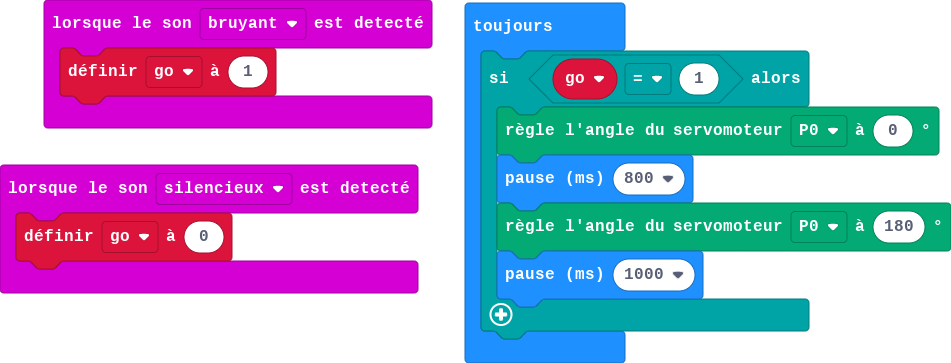
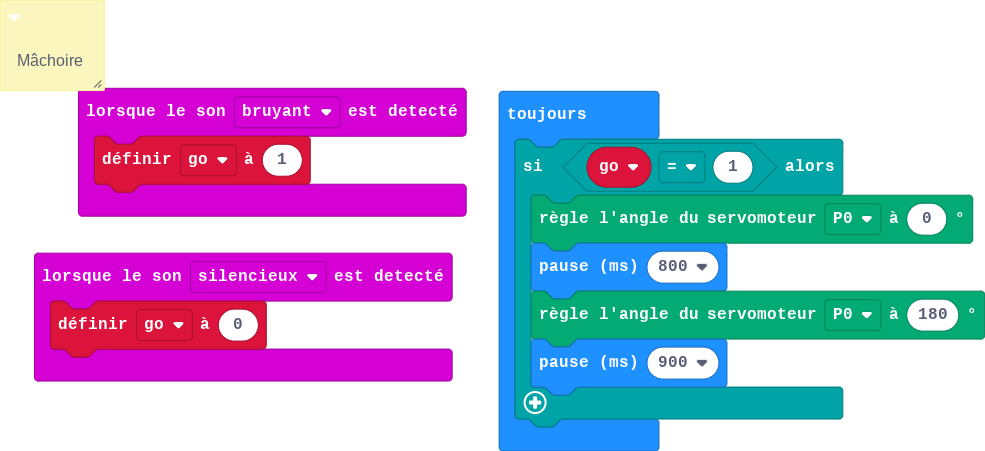
Mise à jour main.blocks, main.ts

diff --git a/main.ts b/main.ts
@@ -1,4 +1,7 @@
 let go = 0
+/**
+ * Mâchoire
+ */
 input.onSound(DetectedSound.Loud, function () {
     go = 1
 })
@@ -10,6 +13,6 @@ basic.forever(function () {
         servos.P0.setAngle(0)
         basic.pause(800)
         servos.P0.setAngle(180)
-        basic.pause(1000)
+        basic.pause(900)
     }
 })
